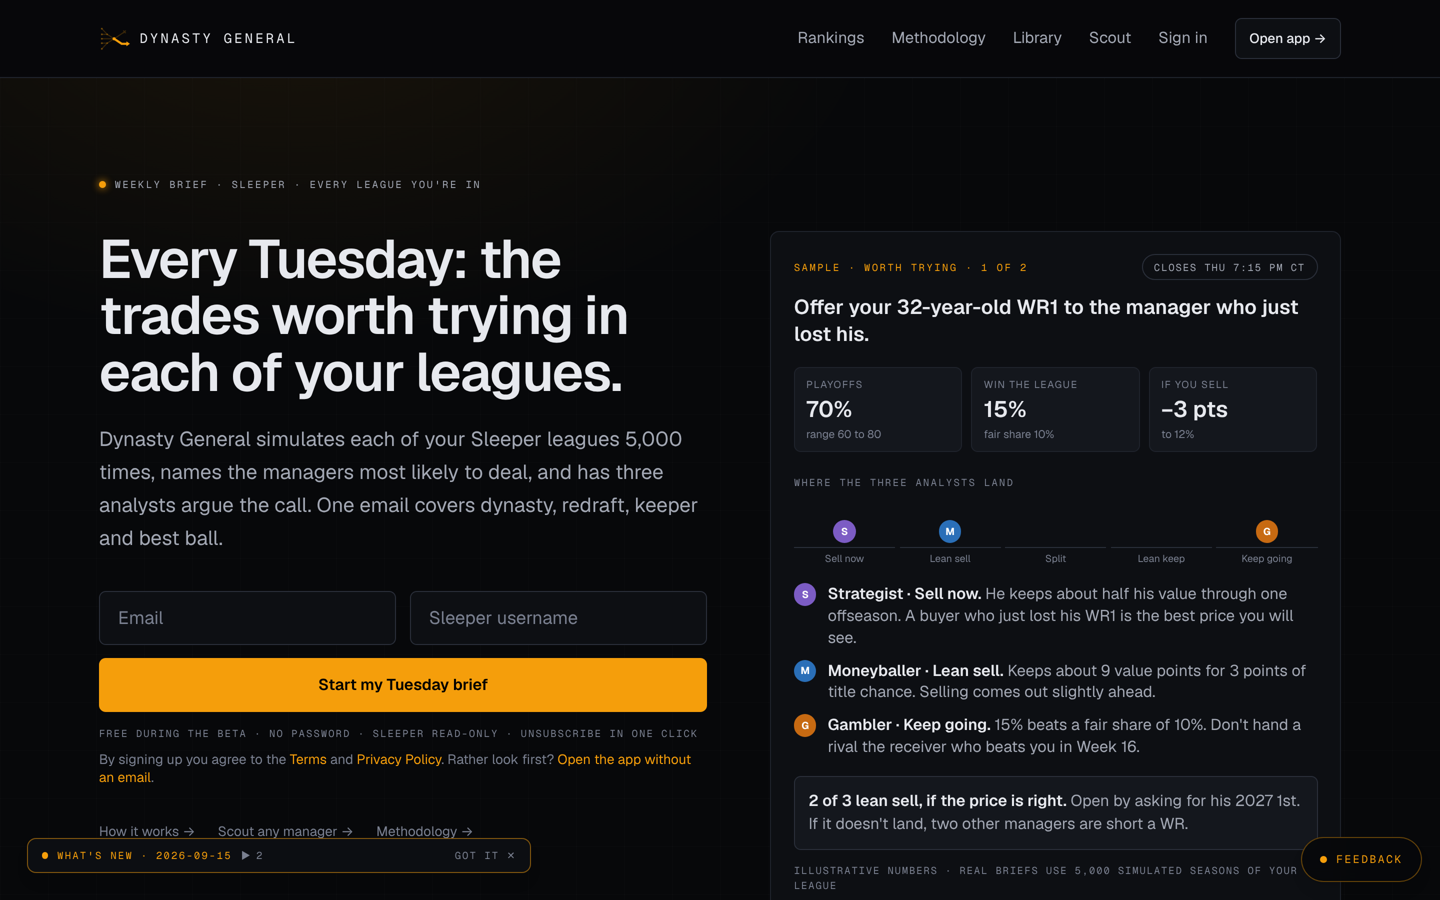
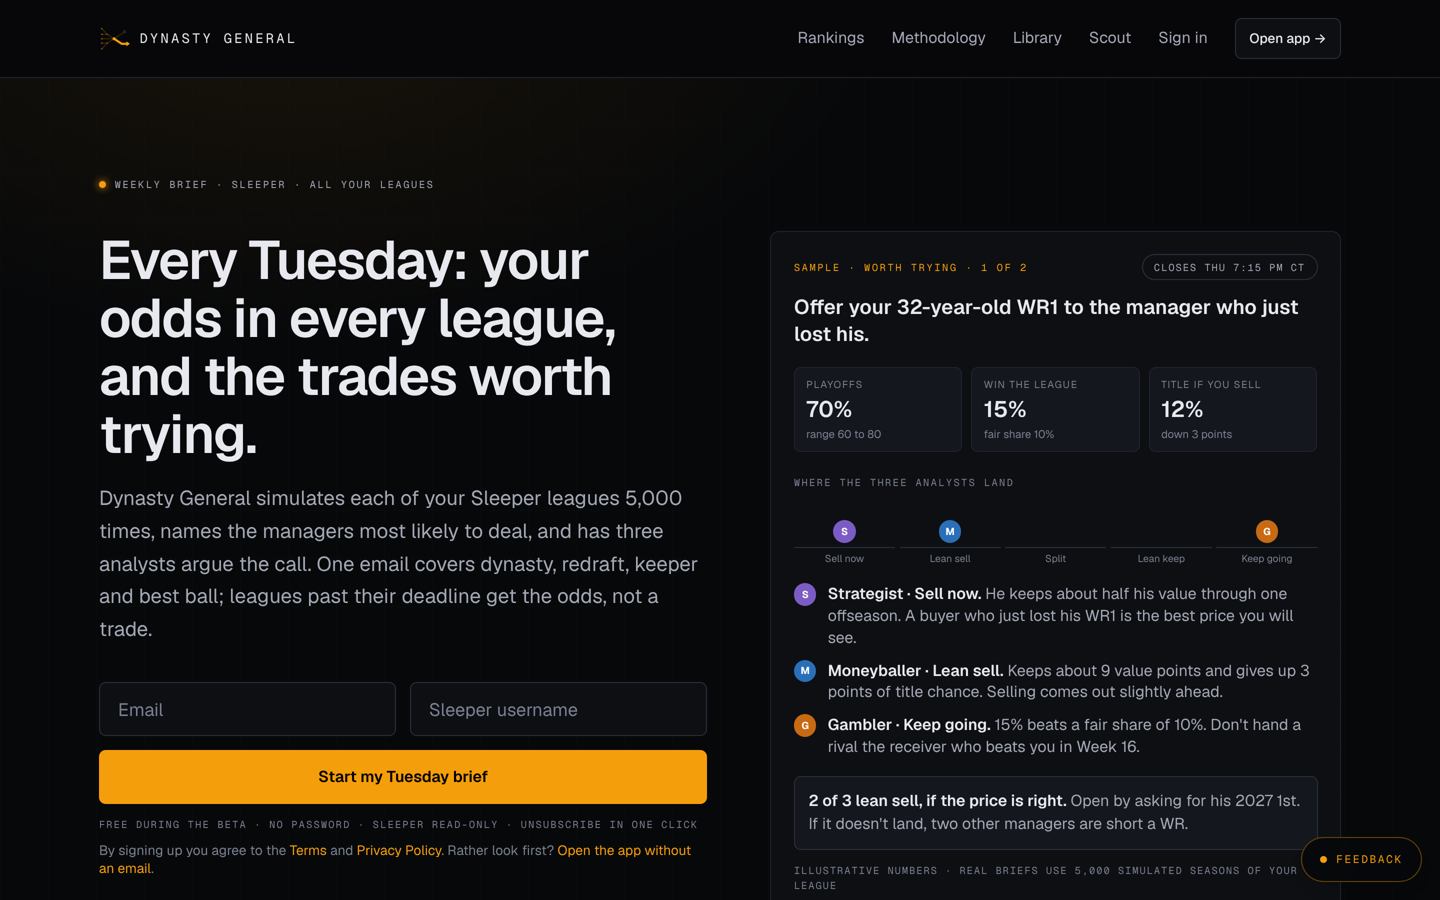
Homepage: design-qa fixes
- Hide the What's new ribbon on the homepage and the Feedback pill on
  homepage phones (both covered the signup form at 390px).
- Drop the false 'no cap on leagues' line (LEAGUE_CAP still applies).
- Success copy true for new and existing accounts.
- Hero names that past-deadline leagues get odds, not a trade.
- Waitlist no longer asks for a Sleeper username (one Sleeper signup).
- Sample card: one meaning per unit; remove duplicate How it works.
- Claims register: C-007 (5,000 sims) and C-008 (no trade card for best
  ball / past deadline) as drafts for the claims steward.
- Tighter phone hero so the form sits at the fold; re-shot screenshots.

Claude-Session: https://claude.ai/code/session_014dZxKanFAbbwmjSi1Hmhwt

diff --git a/src/components/landing/waitlist.tsx b/src/components/landing/waitlist.tsx
@@ -151,10 +151,9 @@ export function Waitlist() {
           On MFL, ESPN, or Yahoo? Get one note the day your platform ships.
         </h2>
         <p className="mt-6 text-lg text-muted">
-          Sleeper is live today and open to every signed-in tester. Leave an
-          email and, if you have one, a Sleeper username. Dynasty General
-          sends one message when a new platform adapter ships, and nothing
-          else.
+          Sleeper is live today; use the form at the top of the page. For
+          other platforms, leave an email and Dynasty General sends one
+          message when your platform ships, and nothing else.
         </p>
 
         {status === "success" ? (
@@ -188,17 +187,6 @@ export function Waitlist() {
                 />
               </Field>
             </Grid>
-            <Field label="Sleeper username (we'll detect your leagues)">
-              <input
-                name="sleeper_username"
-                autoComplete="off"
-                value={username}
-                onChange={(e) => setUsername(e.target.value)}
-                placeholder="e.g. izzydabomb"
-                className={inputCls}
-              />
-              <CountDisplay state={count} />
-            </Field>
             <Field label="Are you more active in drafts or trades right now?">
               <select name="focus" className={inputCls} defaultValue="">
                 <option value="" disabled>
@@ -254,40 +242,6 @@ export function Waitlist() {
         )}
       </div>
     </section>
-  );
-}
-
-function CountDisplay({ state }: { state: CountState }) {
-  if (state.kind === "idle") return null;
-  if (state.kind === "loading") {
-    return (
-      <div className="mt-2 font-mono text-[10px] uppercase tracking-[0.16em] text-muted-2">
-        Checking Sleeper…
-      </div>
-    );
-  }
-  if (state.kind === "missing") {
-    return (
-      <div className="mt-2 font-mono text-[10px] uppercase tracking-[0.16em] text-danger">
-        No Sleeper account matches &ldquo;{state.username}&rdquo;.
-      </div>
-    );
-  }
-  if (state.kind === "error") {
-    return (
-      <div className="mt-2 font-mono text-[10px] uppercase tracking-[0.16em] text-muted-2">
-        {state.message}
-      </div>
-    );
-  }
-  // found
-  return (
-    <div className="mt-2 rounded-md border border-accent/40 bg-accent/5 px-3 py-2 font-mono text-[10px] uppercase tracking-[0.18em] text-accent">
-      Identified{state.display_name ? ` · ${state.display_name}` : ""} ·{" "}
-      {state.dynasty} dynasty{state.dynasty === 1 ? " league" : " leagues"}
-      {state.other > 0 ? ` · ${state.other} other` : ""}
-      {state.season ? ` · ${state.season}` : ""}
-    </div>
   );
 }
 

diff --git a/src/components/landing/hero.tsx b/src/components/landing/hero.tsx
@@ -22,19 +22,20 @@ export function Hero() {
     <section className="relative overflow-hidden border-b border-border-soft">
       <div className="absolute inset-0 bg-grid opacity-50" />
       <div className="absolute inset-0 bg-glow" />
-      <div className="relative mx-auto max-w-6xl px-6 pt-14 pb-20 sm:pt-20 sm:pb-24">
-        <Ticker label="Weekly brief · Sleeper · every league you're in" />
+      <div className="relative mx-auto max-w-6xl px-6 pt-8 pb-16 sm:pt-20 sm:pb-24">
+        <Ticker label="Weekly brief · Sleeper · all your leagues" />
 
-        <div className="mt-8 grid items-start gap-12 lg:grid-cols-[1.05fr_1fr]">
+        <div className="mt-6 grid items-start gap-12 sm:mt-8 lg:grid-cols-[1.05fr_1fr]">
           <div>
-            <h1 className="text-4xl font-semibold leading-[1.05] tracking-tight text-foreground sm:text-5xl">
-              Every Tuesday: the trades worth trying in each of your leagues.
+            <h1 className="text-3xl font-semibold leading-[1.08] tracking-tight text-foreground sm:text-5xl">
+              Every Tuesday: your odds in every league, and the trades worth trying.
             </h1>
-            <p className="mt-5 max-w-xl text-base leading-relaxed text-muted sm:text-lg">
+            <p className="mt-4 max-w-xl text-base leading-relaxed text-muted sm:text-lg">
               Dynasty General simulates each of your Sleeper leagues 5,000
               times, names the managers most likely to deal, and has three
               analysts argue the call. One email covers dynasty, redraft,
-              keeper and best ball.
+              keeper and best ball; leagues past their deadline get the odds,
+              not a trade.
             </p>
 
             <BriefSignupForm />

diff --git a/src/components/landing/brief-sections.tsx b/src/components/landing/brief-sections.tsx
@@ -1,4 +1,3 @@
-import Link from "next/link";
 import { ANALYSTS } from "@/components/landing/analysts";
 
 /**
@@ -14,7 +13,7 @@ export function InboxSection() {
       <div className="mx-auto max-w-6xl px-6 py-16">
         <Kicker>What lands in your inbox</Kicker>
         <h2 className="mt-2 max-w-2xl text-2xl font-semibold tracking-tight text-foreground sm:text-3xl">
-          One email for all your leagues, before the trade deadline moves.
+          One email for all your leagues, before your trade deadlines pass.
         </h2>
         <div className="mt-10 grid gap-4 md:grid-cols-3">
           <Card
@@ -23,7 +22,7 @@ export function InboxSection() {
           />
           <Card
             title="Your week in every league"
-            body="Last week's result and your playoff chance in each league, with the change since last Tuesday. No cap on how many leagues you're in."
+            body="Last week's result and your playoff chance in each league, with the change since last Tuesday."
           />
           <Card
             title="League shifts"
@@ -108,14 +107,6 @@ export function LeaguesSection() {
             title="Draft day"
             body="During a draft, one call per pick with the reasoning and the odds the player is still there at your next turn."
           />
-        </div>
-        <div className="mt-8">
-          <Link
-            href="/how-it-works"
-            className="font-mono text-xs uppercase tracking-[0.16em] text-muted-2 hover:text-accent"
-          >
-            How it works →
-          </Link>
         </div>
       </div>
     </section>

diff --git a/src/components/feedback/feedback-widget.tsx b/src/components/feedback/feedback-widget.tsx
@@ -10,6 +10,7 @@
  */
 
 import { useEffect, useState } from "react";
+import { usePathname } from "next/navigation";
 
 type Status = "idle" | "submitting" | "sent" | "error";
 
@@ -35,6 +36,8 @@ export function FeedbackWidget({
   signedInEmail?: string | null;
 } = {}) {
   const [open, setOpen] = useState(false);
+  // On the homepage the pill overlaps the signup form on phones.
+  const onHome = usePathname() === "/";
   const [rating, setRating] = useState<number | null>(null);
   const [message, setMessage] = useState("");
   const [email, setEmail] = useState("");
@@ -99,7 +102,7 @@ export function FeedbackWidget({
       <button
         type="button"
         onClick={() => setOpen(true)}
-        className="fixed bottom-4 right-4 z-30 inline-flex h-10 items-center gap-2 rounded-full border border-accent/40 bg-background/90 px-4 font-mono text-[11px] uppercase tracking-[0.16em] text-accent shadow-lg backdrop-blur transition hover:bg-accent/10"
+        className={`fixed bottom-4 right-4 z-30 ${onHome ? "hidden sm:inline-flex" : "inline-flex"} h-10 items-center gap-2 rounded-full border border-accent/40 bg-background/90 px-4 font-mono text-[11px] uppercase tracking-[0.16em] text-accent shadow-lg backdrop-blur transition hover:bg-accent/10`}
         aria-label="Send feedback"
       >
         <span className="inline-block h-1.5 w-1.5 rounded-full bg-accent" />

diff --git a/src/components/landing/brief-signup-form.tsx b/src/components/landing/brief-signup-form.tsx
@@ -58,8 +58,8 @@ export function BriefSignupForm() {
           You&apos;re in
         </div>
         <p className="mt-2 text-base text-foreground">
-          Your first brief arrives Tuesday morning and covers every Sleeper
-          league {state.username} is in. Your leagues are ready to open now.
+          Your leagues are ready to open now. The brief goes to the address
+          on the account on Tuesday mornings during the season.
         </p>
         <Link
           href={href}
@@ -73,7 +73,7 @@ export function BriefSignupForm() {
 
   const submitting = state.kind === "submitting";
   return (
-    <form onSubmit={onSubmit} className="mt-8 max-w-xl">
+    <form onSubmit={onSubmit} className="mt-6 max-w-xl sm:mt-8">
       <div className="grid gap-3 sm:grid-cols-2">
         <label>
           <span className="sr-only">Email</span>

diff --git a/src/components/whats-new-ribbon.tsx b/src/components/whats-new-ribbon.tsx
@@ -16,6 +16,7 @@
 
 import { useEffect, useState } from "react";
 import Link from "next/link";
+import { usePathname } from "next/navigation";
 import { LATEST_RELEASE } from "@/lib/changelog/releases";
 
 const LATEST_VERSION = LATEST_RELEASE.version;
@@ -26,6 +27,9 @@ const STORAGE_KEY = "dc:changelog-seen-version";
 export function WhatsNewRibbon() {
   const [visible, setVisible] = useState(false);
   const [expanded, setExpanded] = useState(false);
+  // The homepage is for first-time visitors; a release note there sits
+  // over the signup form on phones. Returning testers see it in the app.
+  const onHome = usePathname() === "/";
 
   useEffect(() => {
     try {
@@ -45,7 +49,7 @@ export function WhatsNewRibbon() {
     setVisible(false);
   }
 
-  if (!visible) return null;
+  if (!visible || onHome) return null;
 
   return (
     <div

diff --git a/src/components/landing/sample-trade-card.tsx b/src/components/landing/sample-trade-card.tsx
@@ -24,7 +24,7 @@ const LINES: { key: AnalystKey; stance: string; text: string }[] = [
   {
     key: "moneyballer",
     stance: "Lean sell",
-    text: "Keeps about 9 value points for 3 points of title chance. Selling comes out slightly ahead.",
+    text: "Keeps about 9 value points and gives up 3 points of title chance. Selling comes out slightly ahead.",
   },
   {
     key: "gambler",
@@ -51,7 +51,7 @@ export function SampleTradeCard() {
       <div className="mt-4 grid grid-cols-3 gap-2">
         <Tile label="Playoffs" value="70%" note="range 60 to 80" />
         <Tile label="Win the league" value="15%" note="fair share 10%" />
-        <Tile label="If you sell" value="−3 pts" note="to 12%" />
+        <Tile label="Title if you sell" value="12%" note="down 3 points" />
       </div>
 
       <div className="mt-5">

diff --git a/docs/team/claims-register.md b/docs/team/claims-register.md
@@ -11,6 +11,8 @@ Levels (from the stats and claims steward design): 0 = what the product does (a 
 | C-003 | Lane identity thresholds tuned against 82 dynasty rosters from 5 leagues. | 0 | `src/lib/strategy/lane-identity/cohort-stats.ts` (`COHORT_TOTAL = 82`, `COHORT_LEAGUE_COUNT = 5`), `evals/lane-identity.test.ts`. A cohort count, not a calibration claim: say "tuned against", never "calibrated" or "proven" | 2026-11-23 | 2027-02-23 | approved |
 | C-004 | One Sleeper username, no password, no install. | 0 | `src/app/connect/page.tsx` (username form, public Sleeper API). No dedicated test yet | 2026-11-23 | 2027-02-23 | draft (needs a test) |
 | C-005 | Engine v0 posted 0.399 Spearman vs 0.346 to 0.365 for named consensus baselines, 2022-2024 dynasty cumulative backtest, retrospective, not the live engine. | 2 (retrospective) | `/scoreboard`, MODEL_CARD 9.7. Mixed per year; FantasyPros edged v0 in 2022 and 2023; n = 60 to 90 pairs per cell. Not pre-registered or forward-logged, so NOT a level-3 "better than" claim | 2026-11-23 | 2027-02-23 | approved only with the full qualifier and a `/scoreboard` link; never shortened to "beats consensus" |
+| C-007 | Playoff and title odds come from 5,000 simulated seasons of each league. | 0 | `src/lib/strategy/verdict/season-sim.ts` (`DEFAULT_SIMS = 5000`), `evals/` season-sim tests. A count of simulations, not an accuracy claim | 2026-11-26 | 2027-02-26 | draft (homepage PR #135; claims steward to approve) |
+| C-008 | Best ball leagues and leagues past their trade deadline get odds and the recap, never a trade card. | 0 | `src/lib/strategy/verdict/` trade_window (PR #130), weekly brief content lint | 2026-11-26 | 2027-02-26 | draft (homepage PR #135; claims steward to approve) |
 | R-001 | "Engine v0 · 0.399 Spearman · beats consensus" (trade share card, OG image, share text) | 3 claimed | No level-3 evidence; the live engine is not v0 and no rubric beats the market (`negative-results.md`) | 2026-11-23 | n/a | retired (demotion PR, claims-steward 2026-11-23) |
 | R-002 | "We publish our accuracy. They don't." / "They never publish ... the blend's accuracy" (`/vs-fantasypros`) | 3 claimed | Unverified assertion about a named competitor; FantasyPros publishes expert accuracy rankings | 2026-11-23 | n/a | retired |
 | R-003 | "We publish our accuracy. The industry hides theirs." (`/scoreboard`) | 3 claimed | Unsupported industry-wide claim; LEGAL_GUARDRAILS cites FantasyCalc and Draft Sharks publishing accuracy | 2026-11-23 | n/a | softened to "Our backtest, wins and losses, with units." |
